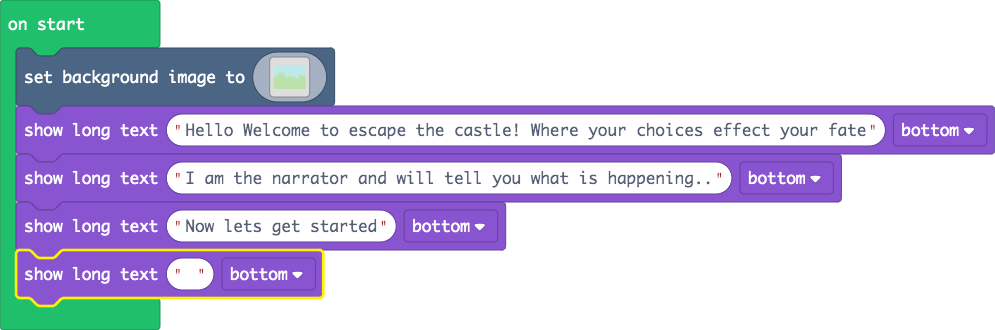
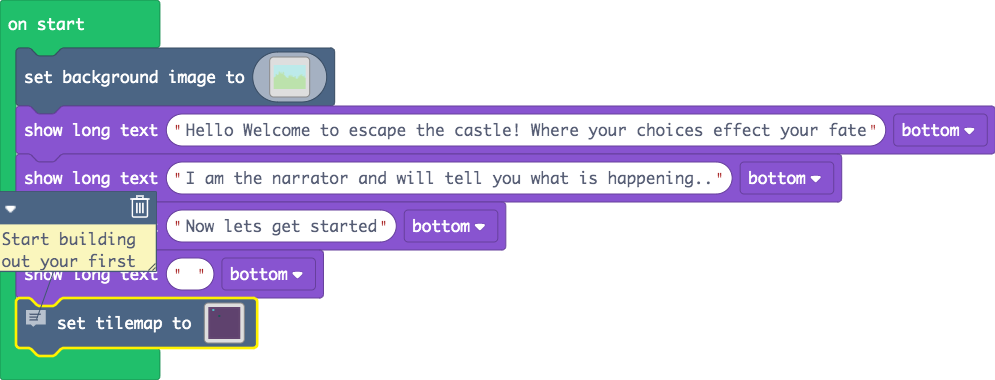
Update main.blocks, main.ts

diff --git a/main.ts b/main.ts
@@ -1,3 +1,24 @@
+namespace myTiles {
+    //% blockIdentity=images._tile
+    export const tile0 = img`
+. . . . . . . . . . . . . . . . 
+. . . . . . . . . . . . . . . . 
+. . . . . . . . . . . . . . . . 
+. . . . . . . . . . . . . . . . 
+. . . . . . . . . . . . . . . . 
+. . . . . . . . . . . . . . . . 
+. . . . . . . . . . . . . . . . 
+. . . . . . . . . . . . . . . . 
+. . . . . . . . . . . . . . . . 
+. . . . . . . . . . . . . . . . 
+. . . . . . . . . . . . . . . . 
+. . . . . . . . . . . . . . . . 
+. . . . . . . . . . . . . . . . 
+. . . . . . . . . . . . . . . . 
+. . . . . . . . . . . . . . . . 
+. . . . . . . . . . . . . . . . 
+`
+}
 scene.setBackgroundImage(img`
 9 9 9 9 9 9 9 9 9 9 9 9 9 9 9 9 9 9 9 9 9 9 9 9 9 9 9 9 9 9 9 9 9 9 9 9 9 9 9 9 9 9 9 9 9 9 9 9 9 9 9 9 9 9 9 9 9 9 9 9 9 9 9 9 9 9 9 9 9 9 9 9 9 9 9 9 9 9 9 9 9 9 9 9 9 9 9 9 9 9 9 9 9 9 9 9 9 9 9 9 9 9 9 9 9 9 9 9 9 9 9 9 9 9 9 9 9 9 9 9 9 9 9 9 9 9 9 9 9 9 9 9 9 9 9 9 9 9 9 9 9 9 9 9 9 9 9 9 9 9 9 9 9 9 9 9 9 9 9 9 
 9 9 9 9 9 9 9 9 9 9 9 9 9 9 9 9 9 9 9 9 9 9 9 9 9 9 9 9 9 9 9 9 9 9 9 9 9 9 9 9 9 9 9 9 9 9 9 9 9 9 9 9 9 9 9 9 9 9 9 9 9 9 9 9 9 9 9 9 9 9 9 9 9 9 9 9 9 9 9 9 9 9 9 9 9 9 9 9 9 9 9 9 9 9 9 9 9 9 9 9 9 9 9 9 9 9 9 9 9 9 9 9 9 9 9 9 9 9 9 9 9 9 9 9 9 9 9 9 9 9 9 9 9 9 9 9 9 9 9 9 9 9 9 9 9 9 9 9 9 9 9 9 9 9 9 9 9 9 9 9 
@@ -124,3 +145,28 @@ game.showLongText("Hello Welcome to escape the castle! Where your choices effect
 game.showLongText("I am the narrator and will tell you what is happening..", DialogLayout.Bottom)
 game.showLongText("Now lets get started", DialogLayout.Bottom)
 game.showLongText("", DialogLayout.Bottom)
+// Start building out your first level! The titles
+// look great at the beginning! 
+tiles.setTilemap(tiles.createTilemap(
[1 lines of base64/hex data omitted]
+            img`
+. . . . . . . . . . . . . . . . 
+. . . . . . . . . . . . . . . . 
+. . . . . . . . . . . . . . . . 
+. . . . . . . . . . . . . . . . 
+. . . . . . . . . . . . . . . . 
+. . . . . . . . . . . . . . . . 
+. . . . . . . . . . . . . . . . 
+. . . . . . . . . . . . . . . . 
+. . . . . . . . . . . . . . . . 
+. . . . . . . . . . . . . . . . 
+. . . . . . . . . . . . . . . . 
+. . . . . . . . . . . . . . . . 
+. . . . . . . . . . . . . . . . 
+. . . . . . . . . . . . . . . . 
+. . . . . . . . . . . . . . . . 
+. . . . . . . . . . . . . . . . 
+`,
+            [myTiles.tile0,sprites.dungeon.darkGroundNorthWest0,sprites.dungeon.darkGroundNorthEast0,sprites.dungeon.darkGroundSouthEast0,sprites.dungeon.darkGroundSouthWest0,sprites.dungeon.darkGroundSouth,sprites.dungeon.darkGroundWest,sprites.dungeon.darkGroundNorth,sprites.dungeon.darkGroundEast,sprites.dungeon.darkGroundCenter,sprites.dungeon.collectibleBlueCrystal,sprites.dungeon.collectibleInsignia],
+            TileScale.Sixteen
+        ))
